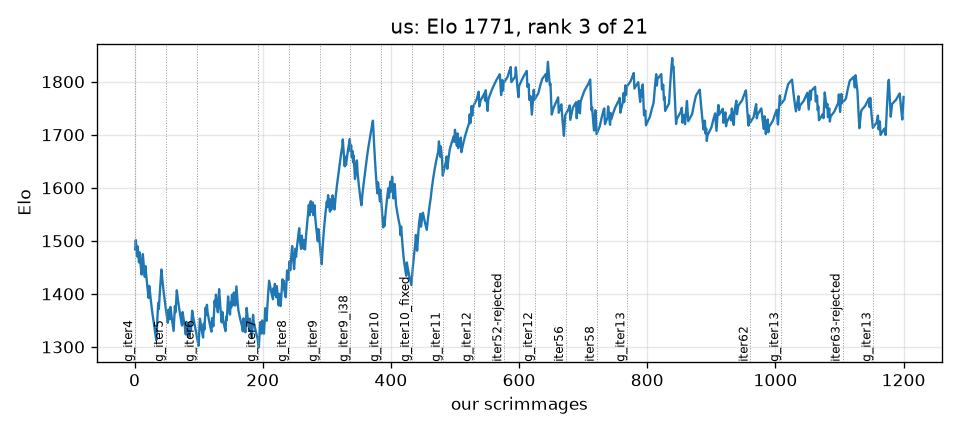
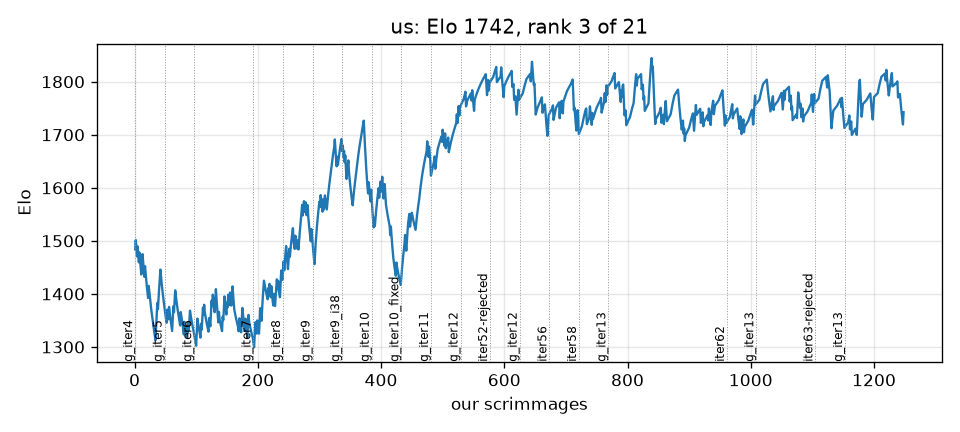
g_iter13 ninth ladder block; the final nine-block record in the log, HANDOFF and the post-mortem
Claude-Session: https://claude.ai/code/session_01VgeNHsn9ncLsLui8RaK6L7

diff --git a/BENCHMARK.md b/BENCHMARK.md
@@ -171,7 +171,7 @@ above the 20% line, so every bot we have played may be reviewed.
 | `OliverMKing.oliverrushbot2` | OliverMKing_battlecode-2021 (14e4015) | - | - | untested |  |
 | `OliverMKing.templatebot` | OliverMKing_battlecode-2021 (14e4015) | - | - | untested |  |
 | `SLaGrave.AlphaCentauri` | SLaGrave_battlecode21 (9ae0ff4) | 100 | 6 | peer(>90 once) | 100 |
-| `Scott-Poole.spright8` | Scott-Poole_battlecode21 (57f898a) | 100 | 6 | peer(>90 once) | 7 12 39 17 25 50 33 33 50 67 67 83 92 83 83 100 74 83 100 |
+| `Scott-Poole.spright8` | Scott-Poole_battlecode21 (57f898a) | 100 | 6 | peer(>90 once) | 7 12 39 17 25 50 33 33 50 67 67 83 92 83 83 100 77 83 100 |
 | `Sihal3.cavShieldv05` | Sihal3_cavshield (7a90425) | - | - | untested |  |
 | `Sihal3.cavShieldv1` | Sihal3_cavshield (7a90425) | - | - | untested |  |
 | `Sihal3.cavShieldv2` | Sihal3_cavshield (7a90425) | - | - | untested |  |
@@ -291,7 +291,7 @@ above the 20% line, so every bot we have played may be reviewed.
 | `awesomelemonade.pdefense2` | awesomelemonade_battlecode-2021 (e9c4afc) | - | - | untested |  |
 | `awesomelemonade.ppbot` | awesomelemonade_battlecode-2021 (e9c4afc) | - | - | untested |  |
 | `awesomelemonade.spreadout` | awesomelemonade_battlecode-2021 (e9c4afc) | - | - | untested |  |
-| `awesomelemonade.sprint1bot` | awesomelemonade_battlecode-2021 (e9c4afc) | 17 | 6 | locked | 0 25 0 0 0 17 33 0 0 0 33 33 33 50 33 36 17 17 |
+| `awesomelemonade.sprint1bot` | awesomelemonade_battlecode-2021 (e9c4afc) | 17 | 6 | locked | 0 25 0 0 0 17 33 0 0 0 33 33 33 50 33 33 17 17 |
 | `awesomelemonade.trollbigps` | awesomelemonade_battlecode-2021 (e9c4afc) | - | - | untested |  |
 | `awesomelemonade.v1_10` | awesomelemonade_battlecode-2021 (e9c4afc) | - | - | untested |  |
 | `awesomelemonade.waves` | awesomelemonade_battlecode-2021 (e9c4afc) | - | - | untested |  |
@@ -320,7 +320,7 @@ above the 20% line, so every bot we have played may be reviewed.
 | `evan-schott.bugplayer` | evan-schott_battlecode2021 (1d7b865) | 100 | 6 | peer(>90 once) | 100 |
 | `evan-schott.nullplayer` | evan-schott_battlecode2021 (1d7b865) | - | - | untested |  |
 | `evan-schott.simpleplayer` | evan-schott_battlecode2021 (1d7b865) | - | - | untested |  |
-| `iliao2345.attacker` | iliao2345_Battlecode2021 (d620569) | 50 | 6 | peer | 21 31 37 17 42 50 83 100 67 83 100 100 100 62 67 50 |
+| `iliao2345.attacker` | iliao2345_Battlecode2021 (d620569) | 50 | 6 | peer | 21 31 37 17 42 50 83 100 67 83 100 100 100 65 67 50 |
 | `iliao2345.buryguard` | iliao2345_Battlecode2021 (d620569) | - | - | untested |  |
 | `iliao2345.donothing` | iliao2345_Battlecode2021 (d620569) | - | - | untested |  |
 | `iliao2345.explore_test` | iliao2345_Battlecode2021 (d620569) | - | - | untested |  |
@@ -396,7 +396,7 @@ above the 20% line, so every bot we have played may be reviewed.
 | `max-titov.navtest` | max-titov_2021.battlecode-KFA (168559c) | - | - | untested |  |
 | `max-titov.navtest2` | max-titov_2021.battlecode-KFA (168559c) | - | - | untested |  |
 | `max-titov.playertemplate` | max-titov_2021.battlecode-KFA (168559c) | - | - | untested |  |
-| `max-titov.sprintplayer` | max-titov_2021.battlecode-KFA (168559c) | 100 | 6 | solved | 25 33 45 67 25 67 67 100 100 92 67 67 83 98 100 100 |
+| `max-titov.sprintplayer` | max-titov_2021.battlecode-KFA (168559c) | 100 | 6 | solved | 25 33 45 67 25 67 67 100 100 92 67 67 83 96 100 100 |
 | `max-titov.voting_test` | max-titov_2021.battlecode-KFA (168559c) | - | - | untested |  |
 | `mhahn2003.bug` | mhahn2003_bc21 (175fd93) | - | - | untested |  |
 | `mhahn2003.coms` | mhahn2003_bc21 (175fd93) | - | - | untested |  |
@@ -518,7 +518,7 @@ above the 20% line, so every bot we have played may be reviewed.
 | `rzhan11.muckspam` | rzhan11_Battlecode2021 (f21c274) | - | - | untested |  |
 | `rzhan11.newday` | rzhan11_Battlecode2021 (f21c274) | - | - | untested |  |
 | `rzhan11.sprint` | rzhan11_Battlecode2021 (f21c274) | - | - | untested |  |
-| `rzhan11.sprint2` | rzhan11_Battlecode2021 (f21c274) | 17 | 6 | locked | 0 11 0 8 33 17 33 33 0 33 67 42 50 33 67 48 50 17 |
+| `rzhan11.sprint2` | rzhan11_Battlecode2021 (f21c274) | 17 | 6 | locked | 0 11 0 8 33 17 33 33 0 33 67 42 50 33 67 44 50 17 |
 | `rzhan11.template` | rzhan11_Battlecode2021 (f21c274) | - | - | untested |  |
 | `rzhan11.wander_defense` | rzhan11_Battlecode2021 (f21c274) | - | - | untested |  |
 | `saivivekvenna.Ba_ba_booie` | saivivekvenna_BattleCode-2021 (636ec61) | 100 | 6 | peer(>90 once) | 100 |

diff --git a/progress/ELO.md b/progress/ELO.md
@@ -1,19 +1,19 @@
 # Elo ladder
 
-1200 scrimmages (ours only); K=32 from 1500; our team is **us**: rank 3 of 21 rated bots, Elo 1771, 1200 games; 45 bots not yet met.
+1248 scrimmages (ours only); K=32 from 1500; our team is **us**: rank 3 of 21 rated bots, Elo 1742, 1248 games; 45 bots not yet met.
 
 | rank | bot | Elo | games | W-L (theirs) |
 |---|---|---|---|---|
-| 1 | awesomelemonade.sprint1bot | 1878 | 150 | 116-34 |
-| 2 | rzhan11.sprint2 | 1827 | 150 | 98-52 |
-| 3 | **us** | 1771 | 1200 | 768-432 |
+| 1 | awesomelemonade.sprint1bot | 1919 | 156 | 121-35 |
+| 2 | rzhan11.sprint2 | 1862 | 156 | 103-53 |
+| 3 | **us** | 1742 | 1248 | 804-444 |
 | 4 | rqi3.qualification_bot | 1641 | 12 | 11-1 |
-| 5 | iliao2345.attacker | 1631 | 132 | 47-85 |
+| 5 | iliao2345.attacker | 1614 | 138 | 48-90 |
 | 6 | BSreenivas0713.musketeerplayerfinal | 1569 | 6 | 5-1 |
 | 7 | iyzg.sbot17 | 1561 | 6 | 5-1 |
 | 8 | VittalT.final_usqualplayer3_subm | 1552 | 6 | 4-2 |
 | 9 | StoneT2000.sprinttuna | 1531 | 6 | 3-3 |
-| 10 | Scott-Poole.spright8 | 1519 | 150 | 52-98 |
+| 10 | Scott-Poole.spright8 | 1488 | 156 | 52-104 |
 | 11 | naalit.mukrush | 1458 | 6 | 0-6 |
 | 12 | unai-gurbindo.camelmanplayer | 1451 | 6 | 0-6 |
 | 13 | raytran.dlmoreram010921 | 1448 | 6 | 0-6 |
@@ -21,9 +21,9 @@
 | 15 | qawsedrftgzh.battlecode2021 | 1435 | 6 | 0-6 |
 | 16 | ChiragKalra.gen5 | 1429 | 6 | 0-6 |
 | 17 | astelmach20.piedPiper | 1422 | 6 | 0-6 |
-| 18 | max-titov.sprintplayer | 1298 | 132 | 23-109 |
-| 19 | arya-k.quals_v1 | 1226 | 132 | 19-113 |
-| 20 | 123kevinlee.atomFinalQualifier | 1210 | 132 | 23-109 |
-| 21 | jmerle.camel_case_v7_sprint_2 | 1206 | 144 | 26-118 |
+| 18 | max-titov.sprintplayer | 1318 | 138 | 24-114 |
+| 19 | arya-k.quals_v1 | 1219 | 138 | 19-119 |
+| 20 | 123kevinlee.atomFinalQualifier | 1203 | 138 | 23-115 |
+| 21 | jmerle.camel_case_v7_sprint_2 | 1200 | 150 | 26-124 |
 
 Not yet met (1500 until their first game against us): Ahhorse1.WinstonPlayer, Aryan34.bot, Aryo-Patel.finalBot, BattlecodeTeam4.robotalpha, BoluAdubi.bot1, BryceKan3.bot.tournament.sprint, IvanGeffner.thirtyone, JCRaymond.bot.tournament.sprint, JasonYe4273.finals, Mahpare.hackatrainee_v1, OliverMKing.bot.tournament.sprint, SLaGrave.AlphaCentauri, Sihal3.cavShieldv705, TeamSerpentine.mars, Techno-coder.muckrakers, TylerQube.sandmenplayer, Victoriano012.SprintBot2, abhishekshree.bot2, aidan-mundy.final_usqualplayer3_subm, alextheimer.player, ama29.v6, angelaloh09.camelmanplayer, anshgs.ho4, davidfang00.Rushbot3, diegorod9000.Newcomer, dominicmkennedy.playerj3, edlwang.sprint2, ehiggins98.initialbot, evan-schott.bugplayer, jay20162016.ecobot, mama4294.Maloneplayer, mhahn2003.finals, mhbtz1.presprint, mvpatel2000.biden, nickel-dime.piedPiper, nsortur.piedPiper, paulmure.sprintplayer, pranayagra.finalbot11, ryanbai1412.sprint_0, saivivekvenna.Ba_ba_booie, sasank02.framework3_mr_density, thevaliantthird.bot1, winkelmantanner.tannerplayer, woodstockcs.fanandflag, wstan2001.boundfinder

diff --git a/POSTMORTEM.md b/POSTMORTEM.md
@@ -6,10 +6,10 @@ This is the write-up a contestant would read after the finals: what we built, ho
 it, what the engine turned out to do, what worked, what did not, and what we would do next.*
 
 **Final standing.** Submission `g_iter13`. On a fixed field of eight released 2021 bots played
-as scrimmages (random map, random side, six games per opponent per block): **298/384 (77.6%)**
-over its eight blocks; **35% against awesomelemonade** (the top bot), **50% against rzhan11**,
-69-100% against the other six. Elo ladder built from our own 1,200 scrimmages: rank 3 of 21
-rated bots (1771), from a start of 29% overall and 7% against the top bot.
+as scrimmages (random map, random side, six games per opponent per block): **334/432 (77.3%)**
+over its nine blocks; **33% against awesomelemonade** (the top bot), **46% against rzhan11**,
+67-100% against the other six. Elo ladder built from our own 1,248 scrimmages: rank 3 of 21
+rated bots (1742), from a start of 29% overall and 7% against the top bot.
 
 The interesting part is not the bot. It is the method that got a 45-minute-per-game season to
 move at all, and the engine facts and strategic measurements it produced along the way. Those
@@ -113,7 +113,7 @@ sees" can run perhaps 200 games a day. Everything about the method follows from 
 | Iter 49-51 | flip intent, stamped ownership claims, abort reports, bid-while-saving, vote-estimate init, bytecode cuts, save mode off | 53-55% (inconclusive) | -- |
 | **g_iter12** | the stack above, accepted on combined evidence | 55.4% | **40/48**, Elo 1798, rank 2 |
 | Iter 52-57 | hold what we take (floor, sentinels, bank), target-aware attack, rich guards, interceptors | rejected / null | 38/48 |
-| **g_iter13** | cheap guards under a swarm | 119-121 (neutral) | **78/96 then 298/384**, awesomelemonade 35%, rzhan11 50% |
+| **g_iter13** | cheap guards under a swarm | 119-121 (neutral) | **78/96 then 334/432**, awesomelemonade 33%, rzhan11 46% |
 | Iter 59-63 | rich interceptors; guards among the slanderers; attack on; scouts patrol the enemy ring; scout caps doubled | null / rejected | -- |
 
 The two accepts that moved the ladder most were both found the same way: measure our

diff --git a/TRAINING_LOG.md b/TRAINING_LOG.md
@@ -5970,3 +5970,21 @@ scouts alone (Iteration 38 said the same at 51.7%). Recorded as `iter63-rejected
       jmerle.camel_case_v7_sprint_2      48/48 (100%)
 
 Ladder after recording: 1200 scrimmages (ours only); K=32 from 1500; our team is **us**: rank 3 of 21 rated bots, Elo 1771, 1200 games
+
+## `g_iter13` ninth and last ladder block: 36/48; the final record (2026-09-23 11:05 UTC)
+
+awesomelemonade 1/6, rzhan11 1/6, iliao2345 5/6, max-titov 5/6, the rest 6/6. The submission's
+code over nine blocks, 432 games on the fixed field:
+
+    g_iter13 code over 9 blocks: 334/432 (77.3%)
+      awesomelemonade.sprint1bot         18/54 (33%)
+      rzhan11.sprint2                    25/54 (46%)
+      iliao2345.attacker                 37/54 (69%)
+      Scott-Poole.spright8               43/54 (80%)
+      max-titov.sprintplayer             51/54 (94%)
+      123kevinlee.atomFinalQualifier     53/54 (98%)
+      arya-k.quals_v1                    53/54 (98%)
+      jmerle.camel_case_v7_sprint_2      54/54 (100%)
+
+Ladder after recording: 1248 scrimmages (ours only); K=32 from 1500; our team is **us**: rank 3 of 21 rated bots, Elo 1742, 1248 games
+No further blocks: the VM is idle for the 13:00 UTC shutdown.

diff --git a/PROMPTS.md b/PROMPTS.md
@@ -514,3 +514,7 @@ Following up on earlier conversations, I'd like you to focus your enhanced intel
 > task check.  If the VM is idle and you're not working on anything, come up with a new idea.  Otherwise, continue as you are
 
 > task check.  If the VM is idle and you're not working on anything, come up with a new idea.  Otherwise, continue as you are
+
+> task check.  If the VM is idle and you're not working on anything, come up with a new idea.  Otherwise, continue as you are
+
+> task check.  If the VM is idle and you're not working on anything, come up with a new idea.  Otherwise, continue as you are

diff --git a/HANDOFF.md b/HANDOFF.md
@@ -1,4 +1,4 @@
-# Handoff -- the state of the loop (updated 2026-09-23 09:05 UTC)
+# Handoff -- the state of the loop (updated 2026-09-23 11:10 UTC)
 
 Read `CLAUDE.md`, then `METHOD.md` (how this project measures things, portable
 across years), then this file, then the tail of `TRAINING_LOG.md`.
